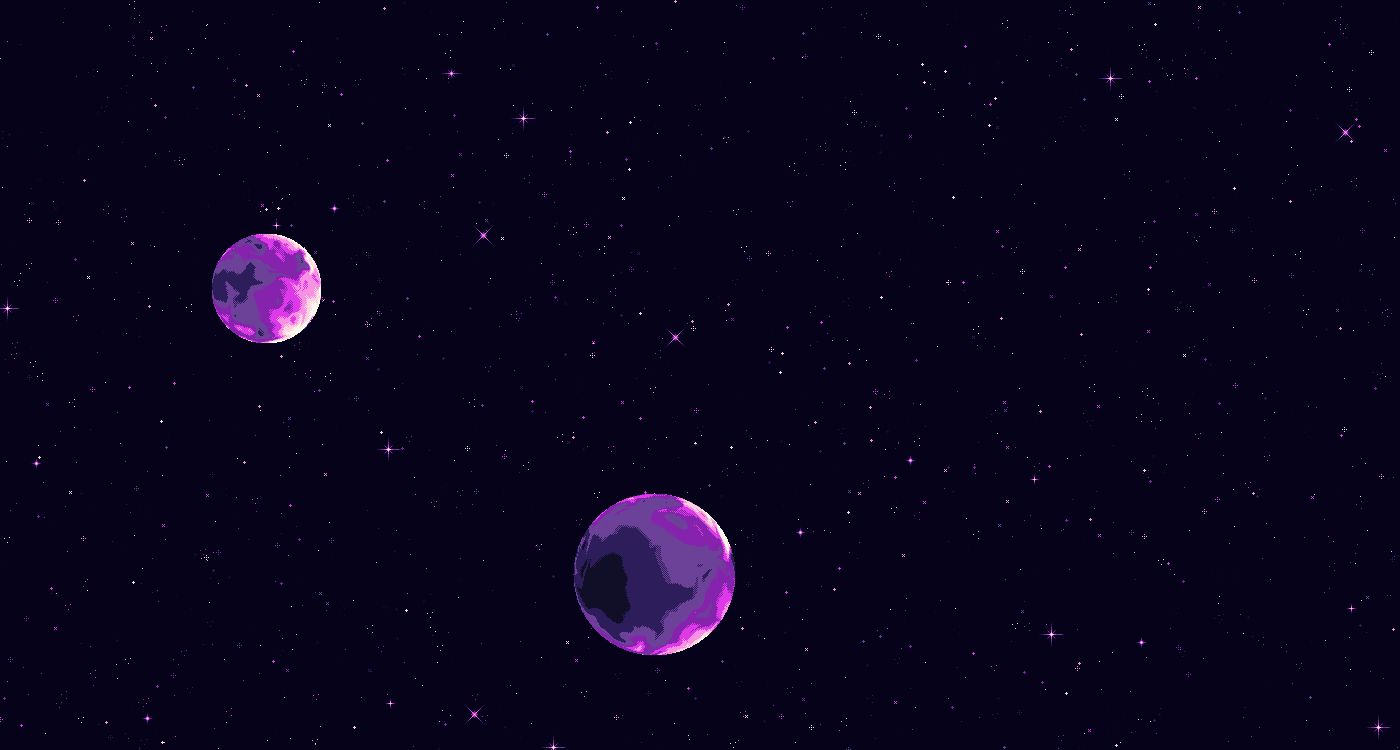
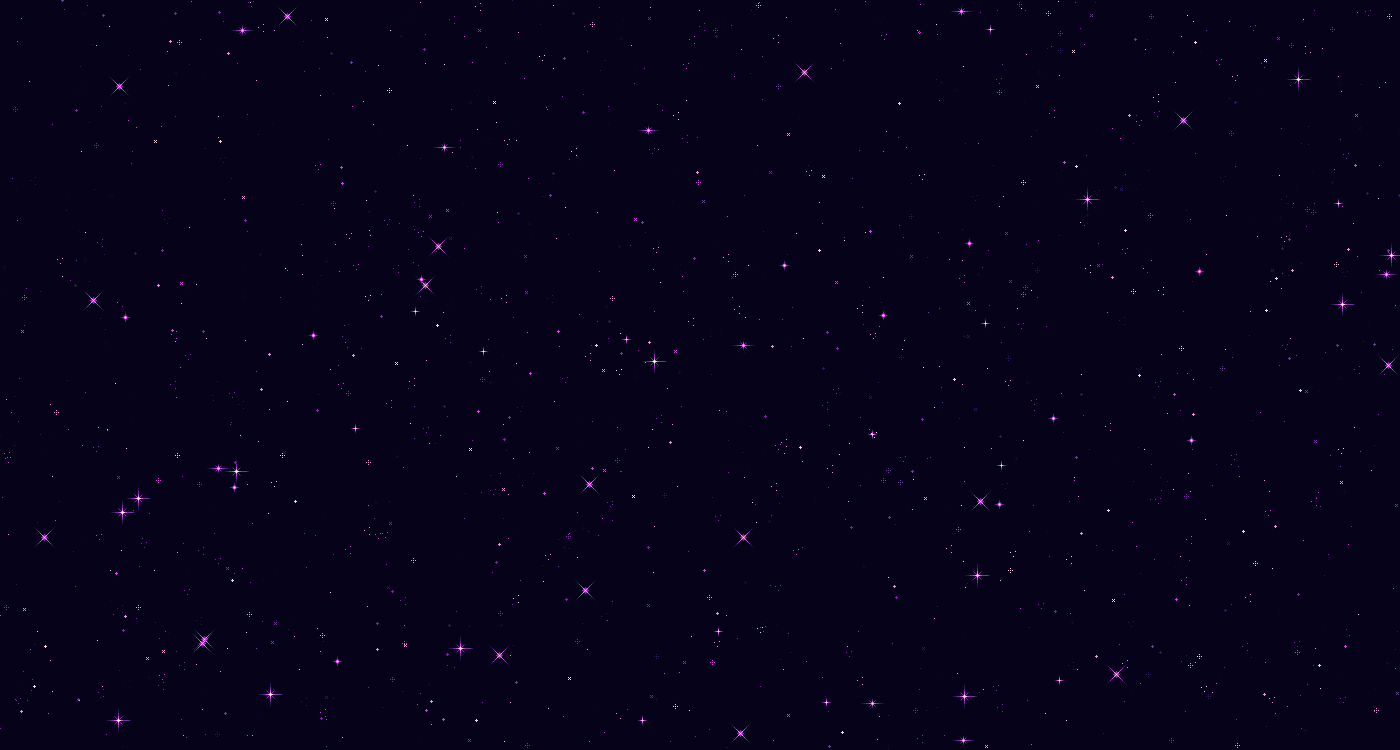
The start screen in made (weird animation left), main game to begin now

diff --git a/main.py b/main.py
@@ -1,4 +1,7 @@
 import pygame, sys
+import math
+from pygame.sprite import _Group
+
 pygame.init()
 
 #setting the screen up, logo, font, music
@@ -6,18 +9,33 @@ Main_surf = pygame.display.set_mode((1400,750))
 pygame.display.set_caption('Star wars ripoff')
 logo = pygame.image.load('Images\\logo.png')
 pygame.display.set_icon(logo)
-font=pygame.font.Font('pixel.ttf')
+font_20=pygame.font.Font('pixel.ttf',20)
+font_40=pygame.font.Font('pixel.ttf',40)
+font_60=pygame.font.Font('pixel.ttf',60)
 bg_music = pygame.mixer.Sound('audio\\music.mp3')
 bg_music.play(loops = -1)
 clock = pygame.time.Clock()
-game_active=False
+game_event=0
 
-#background setup
-backg=pygame.image.load('Images\\Space Background.png').convert_alpha()
-x1=1400
-x2=0
-intro_msg=font.render('Welcome to the start of the game', False, 'Green')
-intro_msg_rect=intro_msg.get_rect(center=(700,50))
+#intro screen setup
+intro_scrn=pygame.image.load('Images\\Space Background 1.png').convert_alpha()
+intro_x1=1400
+intro_x2=0
+intro_msg_1=font_20.render('Dog in a Box Studio presents:', False, 'Green')
+intro_msg_rect1=intro_msg_1.get_rect(center=(700,50))
+intro_msg_2=font_60.render('Star wars ripoff', False, 'Blue')
+intro_msg_rect2=intro_msg_2.get_rect(center=(700,150))
+Start_button=font_40.render('press space to begin', False, (100,0,100))
+Start_button_rect=Start_button.get_rect(center=(700,400))
+spaceship_show=pygame.image.load('Images\\sma.png').convert_alpha()
+
+
+#playing screen1 setup
+scrn1=pygame.image.load('Images\\Space Background 2.png').convert_alpha()
+y1=750
+y2=0
+
+
 
 #player class
 class Player(pygame.sprite.Sprite):
@@ -27,7 +45,9 @@ class Player(pygame.sprite.Sprite):
 
 
 #enemy class
-
+class Enemy(pygame.sprite.Sprite):
+    def __init__(self, *groups: _Group) -> None:
+        super().__init__(*groups)
 
 
 while True:
@@ -35,21 +55,46 @@ while True:
         if event.type==pygame.QUIT:
             pygame.quit()
             exit()
+
+        if game_event==0:
+            if event.type==pygame.KEYDOWN and event.key==pygame.K_SPACE:
+                    game_event=1
+        else:
+            a=1
+            
      
-    
-    if game_active:
-        a=1
-    else:
+    if game_event==0:
         #background animations
-        Main_surf.blit(backg,(x1,0))
-        Main_surf.blit(backg,(x2,0))
-        x1-=1
-        x2-=1
-        if x1<0: x1=1400
-        if x2<-1400: x2=0
-        Main_surf.blit(intro_msg,intro_msg_rect)
-        Main_surf.blit()
+        Main_surf.blit(intro_scrn,(intro_x1,0))
+        Main_surf.blit(intro_scrn,(intro_x2,0))
+        intro_x1-=1
+        intro_x2-=1
+        if intro_x1<0: intro_x1=1400
+        if intro_x2<-1400: intro_x2=0
+        Main_surf.blit(intro_msg_1,intro_msg_rect1)
+        Main_surf.blit(intro_msg_2,intro_msg_rect2)
+        pygame.draw.rect(Main_surf,(100,0,100),Start_button_rect,2)
+        Main_surf.blit(Start_button,Start_button_rect)
+
+
+        #spaceship move weird animation
+        '''x_sine = intro_x1 / 5  % 1400
+        y_sine = int(math.sin(x_sine/50.0) * 50 + 400)   
+        Main_surf.blit(spaceship_show,(x_sine,y_sine+100))
+        Main_surf.blit(spaceship_show,(x_sine+200,y_sine))
+        Main_surf.blit(spaceship_show,(x_sine-200,y_sine))'''
+
         
+
+    elif game_event==1:
+        #background animation for level1
+        Main_surf.blit(scrn1,(0,y1))
+        Main_surf.blit(scrn1,(0,y2))
+        y1-=1
+        y2-=1
+        if y1<0: y1=750
+        if y2<-750: intro_x2=0
+
 
     pygame.display.update()
     clock.tick(60)
